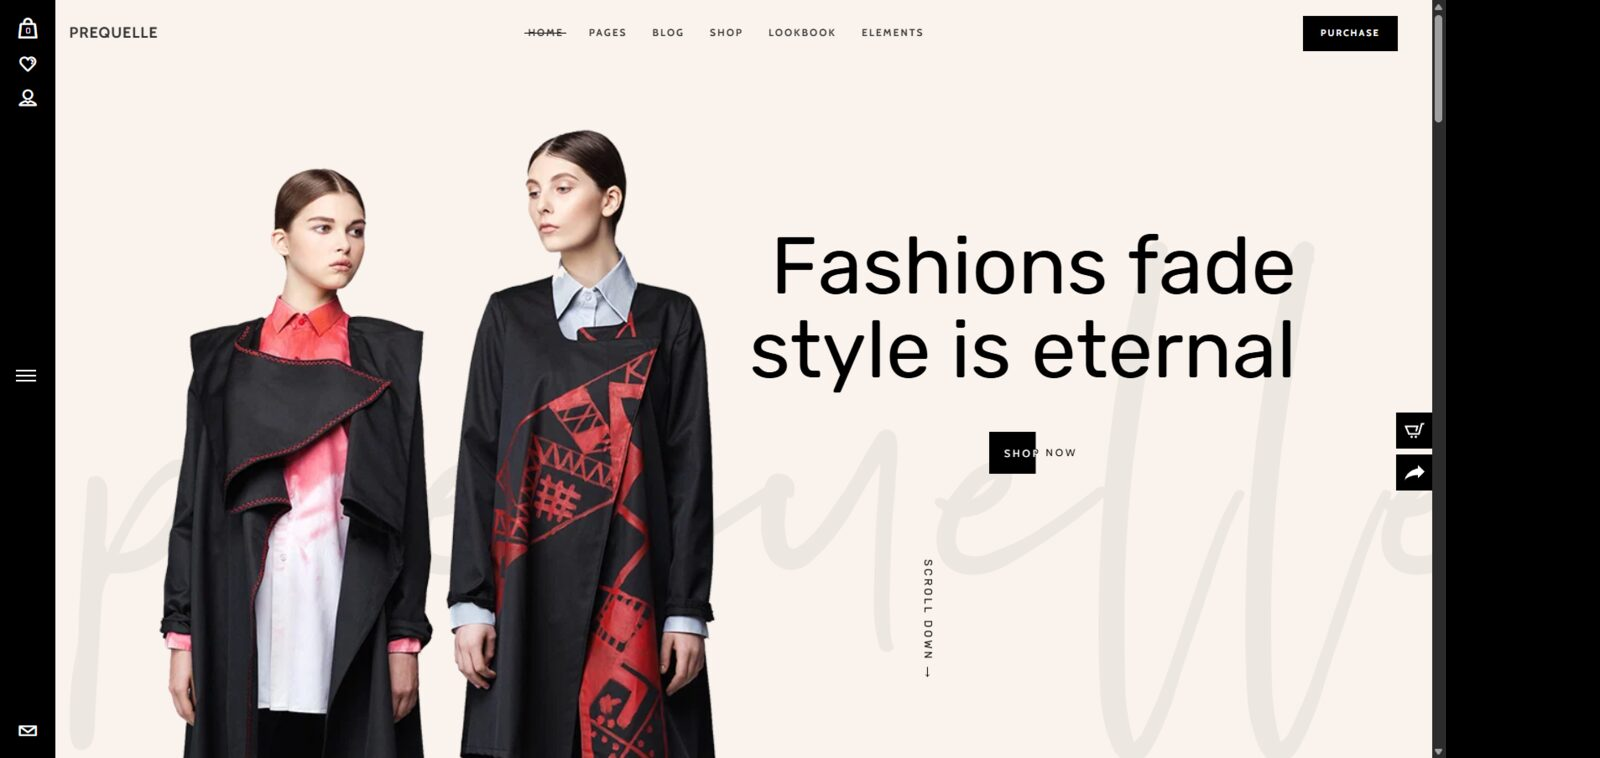
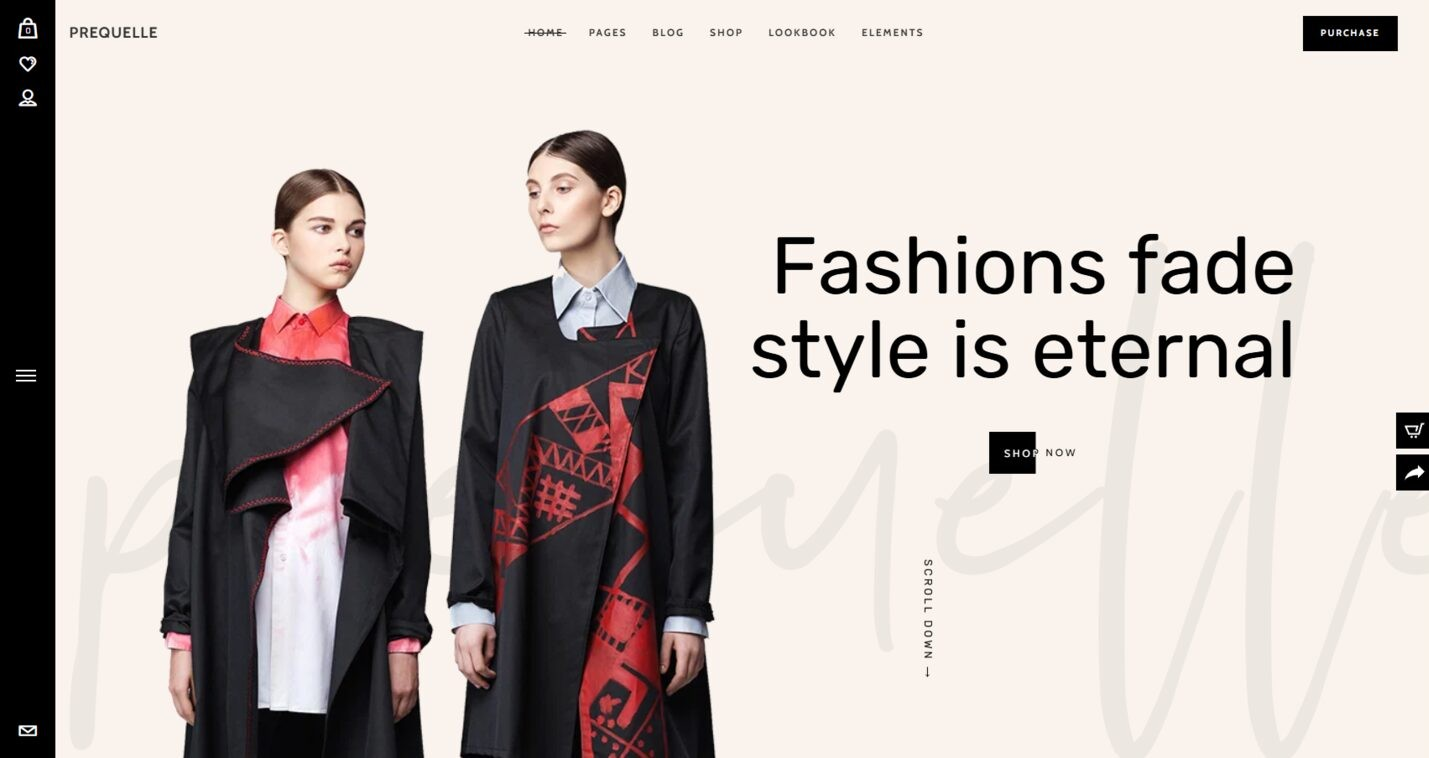
Delay reveal triggers and fix about paragraph line measuring
Measure the about paragraph line breaks after fonts load (and on resize) so
they wrap against real font metrics, and hold the about + contact reveal
triggers back with a bottom rootMargin so they fire once the section is in view.

diff --git a/components/Statement/Statement.js b/components/Statement/Statement.js
@@ -46,13 +46,18 @@ function RevealParagraph({ text, className: cls, startIndex = 0, onMeasured }) {
 			return undefined;
 		}
 
+		let cancelled = false;
+
 		const measure = () => {
+			if (cancelled || !el.parentNode) return;
 			const temp = document.createElement('p');
 			temp.className = el.className;
 			temp.style.cssText =
 				'position:absolute;visibility:hidden;pointer-events:none;left:0;top:0;';
 			temp.style.width = `${el.clientWidth}px`;
-			const words = text.split(' ');
+			// Collapse runs of whitespace so a stray double space can't create an
+			// empty token (which would otherwise skew the line grouping).
+			const words = text.trim().split(/\s+/);
 			temp.innerHTML = words
 				.map(
 					(w) =>
@@ -79,13 +84,32 @@ function RevealParagraph({ text, className: cls, startIndex = 0, onMeasured }) {
 			if (current.length) groups.push(current);
 			el.parentNode.removeChild(temp);
 
+			if (cancelled) return;
 			const grouped = groups.map((g) => g.join(' '));
 			setLines(grouped);
 			onMeasured?.(grouped.length);
 		};
 
+		// Measure once now, then again after the web fonts swap in — the fallback
+		// font wraps at different widths, so grouping before fonts are ready would
+		// break the lines at the wrong words.
 		measure();
-		return undefined;
+		const fontsReady = document.fonts?.ready ?? Promise.resolve();
+		fontsReady.then(() => measure());
+
+		// Keep the line grouping correct across viewport width changes.
+		let resizeRaf = 0;
+		const onResize = () => {
+			cancelAnimationFrame(resizeRaf);
+			resizeRaf = requestAnimationFrame(measure);
+		};
+		window.addEventListener('resize', onResize);
+
+		return () => {
+			cancelled = true;
+			cancelAnimationFrame(resizeRaf);
+			window.removeEventListener('resize', onResize);
+		};
 		// eslint-disable-next-line react-hooks/exhaustive-deps
 	}, [text]);
 
@@ -101,7 +125,9 @@ function RevealParagraph({ text, className: cls, startIndex = 0, onMeasured }) {
 					obs.disconnect();
 				}
 			},
-			{ threshold: 0.2 }
+			// Fire once the paragraph is comfortably into view, not the moment its
+			// top edge peeks in — the bottom margin holds the trigger back ~25%.
+			{ threshold: 0, rootMargin: '0px 0px -25% 0px' }
 		);
 		observer.observe(el);
 		return () => observer.disconnect();

diff --git a/components/GrainOverlay/GrainOverlay.module.scss b/components/GrainOverlay/GrainOverlay.module.scss
@@ -1,6 +1,7 @@
 // Full-viewport grain canvas, fixed above everything and blended over the page.
-// pointer-events: none so it never blocks interaction. `overlay` keeps mid-tones
-// neutral and only layers the grain's contrast; tune the strength with opacity.
+// pointer-events: none so it never blocks interaction. `screen` is additive, so
+// the (dark-based) grain shows as faint speckle even on the black background —
+// unlike `overlay`, which leaves pure black untouched. Tune with opacity.
 
 .grain {
 	position: fixed;
@@ -9,13 +10,13 @@
 	height: 100vh;
 	pointer-events: none;
 	z-index: 2147483000; // above all content, incl. the fixed header
-	mix-blend-mode: overlay;
-	opacity: 0.22;
+	mix-blend-mode: screen;
+	opacity: 0.4;
 }
 
 @media (prefers-reduced-motion: reduce) {
 	.grain {
 		// Keep the static grain but calm it down.
-		opacity: 0.15;
+		opacity: 0.28;
 	}
 }

diff --git a/components/GrainOverlay/GrainOverlay.js b/components/GrainOverlay/GrainOverlay.js
@@ -67,10 +67,10 @@ export default function GrainOverlay({ intensity = 0.5, fps = 24 }) {
 							// One noise sample per device pixel, reshuffled each frame.
 							vec2 px = vUv * uResolution;
 							float n = hash(px + fract(uTime) * 137.0);
-							// Centre on 0.5 so an 'overlay' blend leaves mid-tones alone
-							// and only adds the grain's deviation.
-							float g = 0.5 + (n - 0.5) * uIntensity;
-							gl_FragColor = vec4(vec3(g), 1.0);
+							// Dark-based grain for a 'screen' (additive) blend: near-black
+							// with speckle, so it ADDS faint noise to the black background
+							// (an 'overlay' blend would leave pure black untouched).
+							gl_FragColor = vec4(vec3(n * uIntensity), 1.0);
 						}
 					`,
 					uniforms: {

diff --git a/components/CaseStudies/CaseStudies.js b/components/CaseStudies/CaseStudies.js
@@ -173,6 +173,10 @@ export default function CaseStudies() {
 				selector: 'img',
 				// Horizontal displacement — matches the carousel's sideways motion.
 				dir: [1, 0],
+				// Tamer than the defaults: maxVelo caps the hover aberration, scrollGain
+				// scales the scroll-driven distortion. Lower these to calm it further.
+				maxVelo: 0.012,
+				scrollGain: 0.25,
 				// WP media is cross-origin and would taint the WebGL texture. Route it
 				// through Next's same-origin image optimizer so the texture is clean.
 				textureSrc: (img) =>

diff --git a/components/Contact/Contact.js b/components/Contact/Contact.js
@@ -34,7 +34,9 @@ export default function Contact() {
 					obs.disconnect();
 				}
 			},
-			{ threshold: 0.25 }
+			// Hold the reveal back until the section is comfortably in view rather
+			// than firing the moment its top edge appears.
+			{ threshold: 0, rootMargin: '0px 0px -25% 0px' }
 		);
 		observer.observe(node);
 		return () => observer.disconnect();
